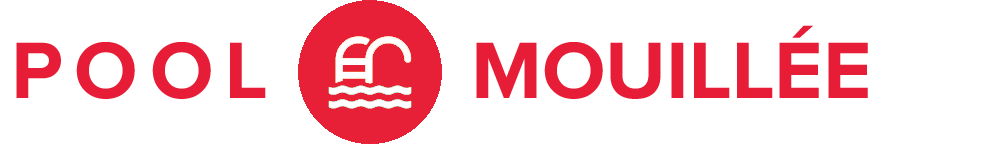
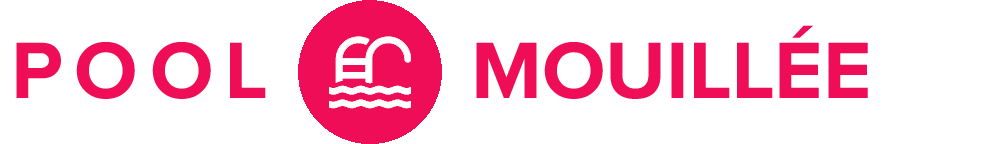
frontend changes. colors. show page

Changed region(s): [[0.0, 0.0, 0.868, 1.0]]

diff --git a/app/assets/javascripts/pricechange.js b/app/assets/javascripts/pricechange.js
@@ -1,0 +1,14 @@
+$(document).ready(function(){
+
+    var oldprice = parseInt( $("#price-int").text() );
+
+    $( "select" ).change(function() {
+    if ($("select").val() == "All Day" || $("select").val() == "All Night Long" ){
+      newprice = oldprice * 2;
+      $("#price-int").text(newprice);
+    }
+    else{
+      $("#price-int").text(oldprice);
+    }
+    });
+});

diff --git a/app/assets/stylesheets/config/_variables.scss b/app/assets/stylesheets/config/_variables.scss
@@ -30,7 +30,7 @@ $base-height: 1.4;
  * Colors
  * ------------------------------------- */
 // Scheme
-$red: #e71d36;
+$red: #f00d58;
 $blue: #469AE0;
 $yellow: #FDB631;
 $orange: #ff9f1c;
@@ -39,7 +39,7 @@ $purple: #6452BD;
 
 $facebook: #45619D;
 $facebook-hover: #4568B2;
-$red-hover: #FA4B4E;
+$red-hover: #d30d4e;
 $marine: #011627;
 $nacre: #fdfffc;
 

diff --git a/app/assets/stylesheets/pools/_pool-show.scss b/app/assets/stylesheets/pools/_pool-show.scss
@@ -65,6 +65,9 @@
   h2 {
     font-size: 22px;
   }
+  p {
+    margin-top: -5px;
+  }
   .btn-danger {
     width: 84%;
     margin-top: 9px;
